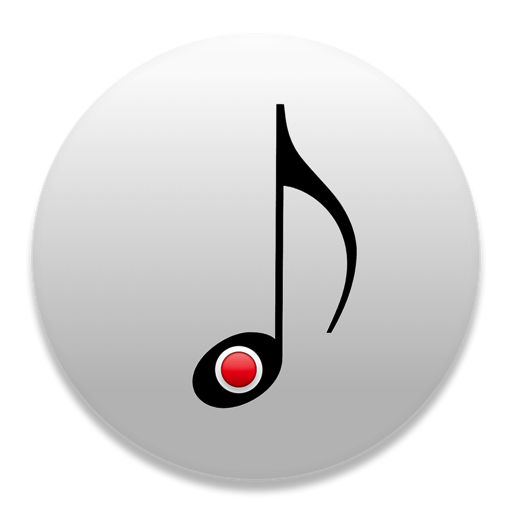
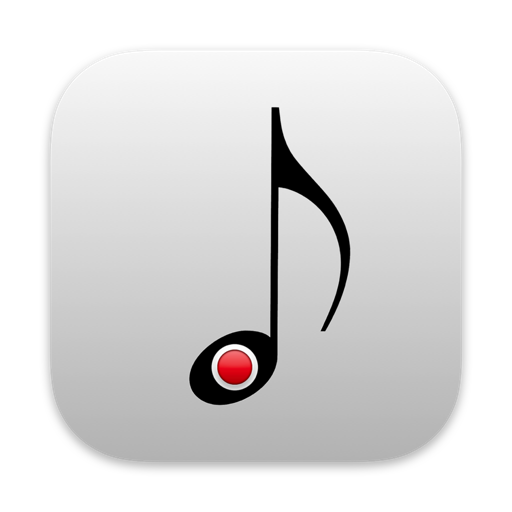
Add release notes and assets for version 2.0.14

diff --git a/_pages/changelog.md b/_pages/changelog.md
@@ -6,6 +6,11 @@ include_in_header: true
 
 # Changelog
 
+## Version 2.0.14
+`14 April 2021`
+
+- New app icon for macOS Big Sur
+
 ## Version 2.0.13
 `16 January 2021`
 
